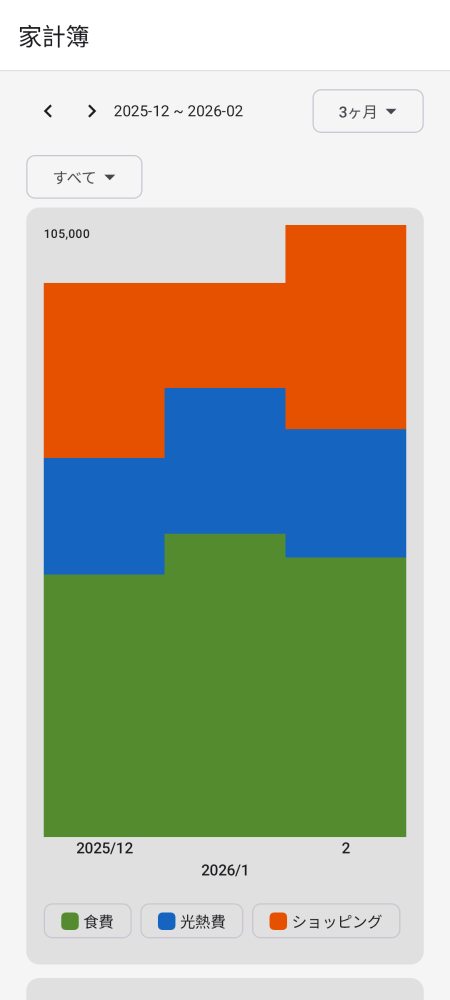
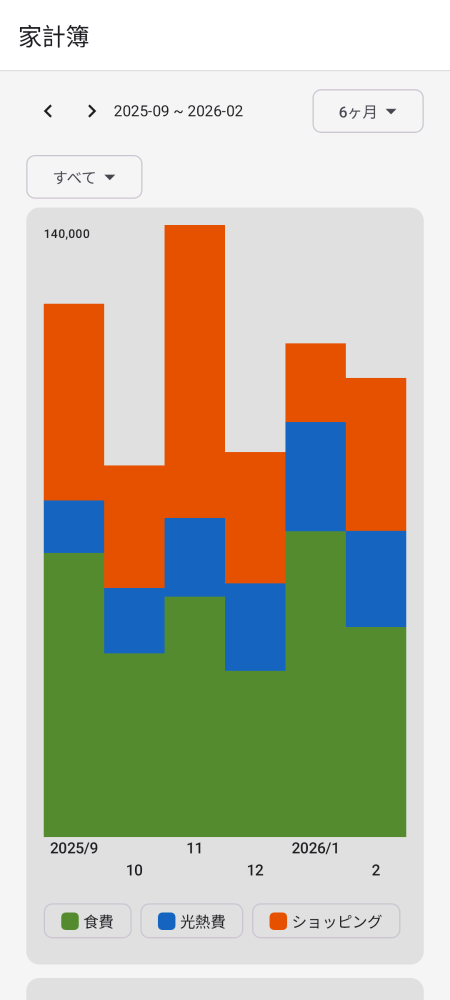
PeriodAnalyticsScreenPreviewを6ヶ月・起伏のあるデータに更新
- データを3ヶ月（12月〜2月）から6ヶ月（9月〜2月）に拡張
- 各月の金額に大きな差をつけてグラフに起伏を追加
  - 9月: ¥122,000（高）, 10月: ¥85,000（低）, 11月: ¥140,000（最高）
  - 12月: ¥88,000（低）, 1月: ¥113,000（中高）, 2月: ¥105,000（中）
- rangeTextを「3ヶ月」から「6ヶ月」に変更
- betweenを「2025-09 ~ 2026-02」に更新
- READMEのスクリーンショットを新しいスナップショットで置き換え

https://claude.ai/code/session_01RLbu169GY5HnchGsG2ddUN

diff --git a/frontend/common/ui/src/commonMain/kotlin/net/matsudamper/money/frontend/common/ui/screen/root/home/RootHomeTabPeriodAllContent.kt b/frontend/common/ui/src/commonMain/kotlin/net/matsudamper/money/frontend/common/ui/screen/root/home/RootHomeTabPeriodAllContent.kt
@@ -196,24 +196,57 @@ private fun PeriodAnalyticsScreenPreview() {
                         items = listOf(
                             BarGraphUiState.PeriodData(
                                 year = 2025,
+                                month = 9,
+                                items = listOf(
+                                    BarGraphUiState.Item(color = Color(0xFF558B2F), title = "食費", value = 65000),
+                                    BarGraphUiState.Item(color = Color(0xFF1565C0), title = "光熱費", value = 12000),
+                                    BarGraphUiState.Item(color = Color(0xFFE65100), title = "ショッピング", value = 45000),
+                                ).toImmutableList(),
+                                total = 122000,
+                                event = noOpBarEvent,
+                            ),
+                            BarGraphUiState.PeriodData(
+                                year = 2025,
+                                month = 10,
+                                items = listOf(
+                                    BarGraphUiState.Item(color = Color(0xFF558B2F), title = "食費", value = 42000),
+                                    BarGraphUiState.Item(color = Color(0xFF1565C0), title = "光熱費", value = 15000),
+                                    BarGraphUiState.Item(color = Color(0xFFE65100), title = "ショッピング", value = 28000),
+                                ).toImmutableList(),
+                                total = 85000,
+                                event = noOpBarEvent,
+                            ),
+                            BarGraphUiState.PeriodData(
+                                year = 2025,
+                                month = 11,
+                                items = listOf(
+                                    BarGraphUiState.Item(color = Color(0xFF558B2F), title = "食費", value = 55000),
+                                    BarGraphUiState.Item(color = Color(0xFF1565C0), title = "光熱費", value = 18000),
+                                    BarGraphUiState.Item(color = Color(0xFFE65100), title = "ショッピング", value = 67000),
+                                ).toImmutableList(),
+                                total = 140000,
+                                event = noOpBarEvent,
+                            ),
+                            BarGraphUiState.PeriodData(
+                                year = 2025,
                                 month = 12,
                                 items = listOf(
-                                    BarGraphUiState.Item(color = Color(0xFF558B2F), title = "食費", value = 45000),
+                                    BarGraphUiState.Item(color = Color(0xFF558B2F), title = "食費", value = 38000),
                                     BarGraphUiState.Item(color = Color(0xFF1565C0), title = "光熱費", value = 20000),
                                     BarGraphUiState.Item(color = Color(0xFFE65100), title = "ショッピング", value = 30000),
                                 ).toImmutableList(),
-                                total = 95000,
+                                total = 88000,
                                 event = noOpBarEvent,
                             ),
                             BarGraphUiState.PeriodData(
                                 year = 2026,
                                 month = 1,
                                 items = listOf(
-                                    BarGraphUiState.Item(color = Color(0xFF558B2F), title = "食費", value = 52000),
+                                    BarGraphUiState.Item(color = Color(0xFF558B2F), title = "食費", value = 70000),
                                     BarGraphUiState.Item(color = Color(0xFF1565C0), title = "光熱費", value = 25000),
                                     BarGraphUiState.Item(color = Color(0xFFE65100), title = "ショッピング", value = 18000),
                                 ).toImmutableList(),
-                                total = 95000,
+                                total = 113000,
                                 event = noOpBarEvent,
                             ),
                             BarGraphUiState.PeriodData(
@@ -231,13 +264,28 @@ private fun PeriodAnalyticsScreenPreview() {
                     ),
                     monthTotalItems = listOf(
                         RootHomeTabPeriodAndCategoryUiState.MonthTotalItem(
+                            title = "2025/09",
+                            amount = "¥122,000",
+                            event = noOpMonthEvent,
+                        ),
+                        RootHomeTabPeriodAndCategoryUiState.MonthTotalItem(
+                            title = "2025/10",
+                            amount = "¥85,000",
+                            event = noOpMonthEvent,
+                        ),
+                        RootHomeTabPeriodAndCategoryUiState.MonthTotalItem(
+                            title = "2025/11",
+                            amount = "¥140,000",
+                            event = noOpMonthEvent,
+                        ),
+                        RootHomeTabPeriodAndCategoryUiState.MonthTotalItem(
                             title = "2025/12",
-                            amount = "¥95,000",
+                            amount = "¥88,000",
                             event = noOpMonthEvent,
                         ),
                         RootHomeTabPeriodAndCategoryUiState.MonthTotalItem(
                             title = "2026/01",
-                            amount = "¥95,000",
+                            amount = "¥113,000",
                             event = noOpMonthEvent,
                         ),
                         RootHomeTabPeriodAndCategoryUiState.MonthTotalItem(
@@ -254,8 +302,8 @@ private fun PeriodAnalyticsScreenPreview() {
                 ),
                 rootHomeTabPeriodAndCategoryUiState = RootHomeTabPeriodAndCategoryUiState(
                     loadingState = RootHomeTabPeriodAndCategoryUiState.LoadingState.Loaded(
-                        rangeText = "3ヶ月",
-                        between = "2025-12 ~ 2026-02",
+                        rangeText = "6ヶ月",
+                        between = "2025-09 ~ 2026-02",
                         categoryType = "すべて",
                         categoryTypes = listOf(
                             RootHomeTabPeriodAndCategoryUiState.CategoryTypes(title = "すべて", onClick = {}),
